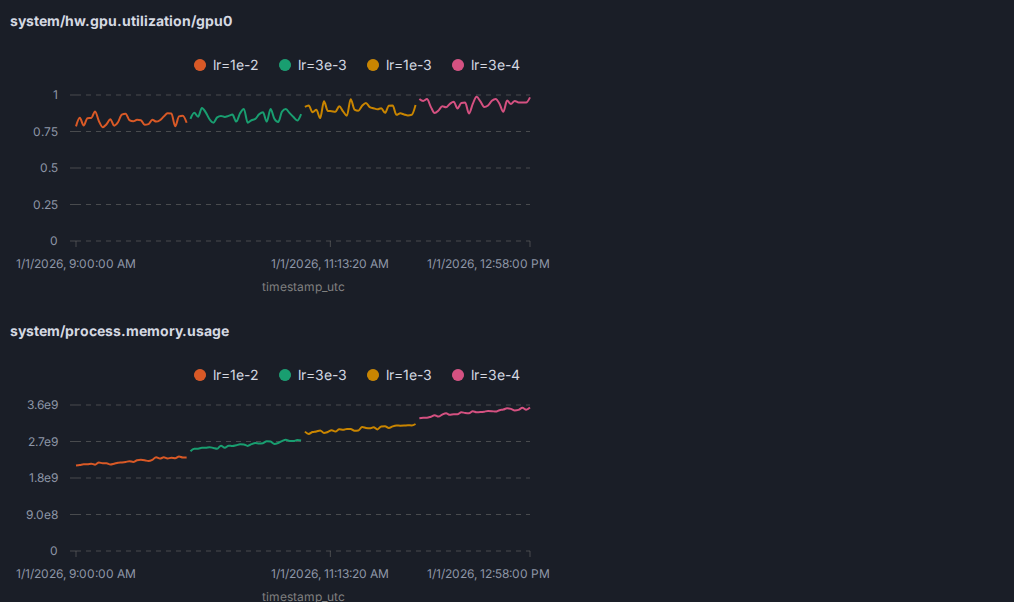
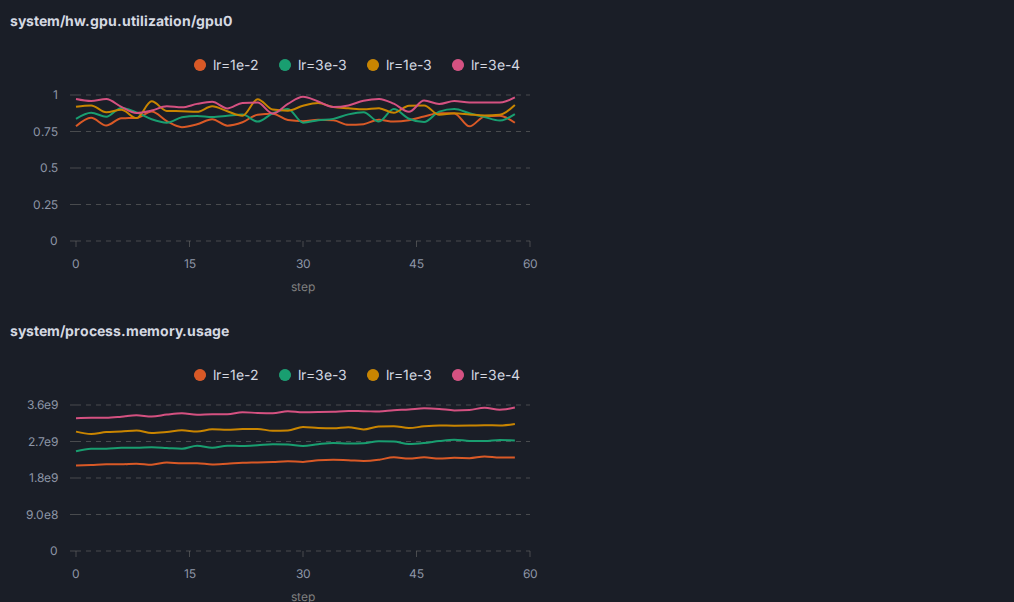
Log a system metric at the run's training step, never at the time
The system sampler logged each sample at the Unix time it was taken, as its
step, so a chart of one against step ran along epoch seconds. A Run now keeps
the step it was last logged at (log_metrics, log_histograms), and a sample is
logged there, 0 before the first; auto-generate charts system metrics against
step like any metric, and the docs screenshot is redrawn that way.

diff --git a/dlboard/client/run.py b/dlboard/client/run.py
@@ -541,12 +541,12 @@ class _Stops(Protocol):
 
 def _log_system(run: Callable[[], Run | None], values: Mapping[str, float]) -> None:
     """
-    Log a system metrics sample into `run` (a weak reference: the sampler must not keep it alive), at the time taken.
+    Log a system metrics sample into `run` (a weak reference: the sampler must not keep it alive), at its step now.
 
-    Its step is the Unix time it was taken, not a training step (see `models.SYSTEM_METRIC_PREFIX`).
+    A step is only ever a training step: the sample is at the one the run last logged at (`Run.step`).
     """
     if (alive := run()) is not None:
-        alive.log_metrics(values, step=int(time.time()))
+        alive.log_metrics(values, step=alive.step)
 
 
 def _log_console(run: Callable[[], Run | None], chunk: ConsoleChunk) -> None:
@@ -586,6 +586,8 @@ class Run:
         self._helpers: list[_Stops] = []
         self.status: models.RunStatus | None = None
         """How this process last told the server the run ended, if it has."""
+        self.step = 0
+        """The training step this run was last logged at (`log_metrics`, `log_histograms`): a system sample's step."""
         if shipping is None:
             return
         # The shipping processes are daemons -- killed with whatever's still queued the moment the interpreter
@@ -742,6 +744,7 @@ class Run:
         it, instead of the server rejecting a whole batch of otherwise-good metrics later on. `step` is required:
         a counter kept here could not agree with another process sharing the run, or with a resumed one.
         """
+        self.step = step
         if (shipping := self._shipping) is None:
             return
         timestamp_utc = pendulum.now(pendulum.UTC)
@@ -770,6 +773,7 @@ class Run:
         by the script that chose it -- once, in one pass over the values -- and a binning that cannot fit
         (too many buckets) raises at this line. A `Histogram` you already binned is sent as it is.
         """
+        self.step = step
         if (shipping := self._shipping) is None:
             return
         shipping.metrics.put(

diff --git a/dlboard/serve/_pages/_experiment/_chart_autogen.py b/dlboard/serve/_pages/_experiment/_chart_autogen.py
@@ -15,13 +15,11 @@ from enum import StrEnum
 from typing import TYPE_CHECKING, Final, Literal
 
 from dlboard.models import (
-    SYSTEM_METRIC_PREFIX,
     Artifact,
     ChartInstance,
     ChartType,
     ColumnKind,
     KeyPatterns,
-    MetricColumn,
     OverlayKey,
     PanelInstance,
     family_template,
@@ -125,20 +123,14 @@ def default_chart_for_metric(
     column: str, *, single_value: bool = False
 ) -> ChartInstance[typing.Any, typing.Any]:
     """
-    The sensible default chart for a metric column: a line chart against `step`, or a system metric's against time.
+    The sensible default chart for a metric column: a line chart against `step`.
 
     `single_value` (every run logs this metric at most once, per
     `single_value_metrics`) switches that to a bar chart comparing the
-    value across runs instead -- a line chart of a single point per run isn't a chart at all. A system metric's step
-    is the time it was sampled (`SYSTEM_METRIC_PREFIX`), so it is drawn against the date it was logged at.
+    value across runs instead -- a line chart of a single point per run isn't a chart at all.
     """
     if single_value:
         return ChartInstance(chart_type=BarChart.name, parameters={"column": column, "x_axis": "run_id"})
-    if column.startswith(SYSTEM_METRIC_PREFIX):
-        return ChartInstance(
-            chart_type=LineChart.name,
-            parameters={"column": column, "x_axis": MetricColumn.TIMESTAMP_UTC, "x_axis_type": "date"},
-        )
     return ChartInstance(chart_type=LineChart.name, parameters={"column": column, "x_axis": "step"})
 
 

diff --git a/dlboard/tests/docs_screenshots_test.py b/dlboard/tests/docs_screenshots_test.py
@@ -239,7 +239,7 @@ def _system_samples(index: int, experiment_id: int, run_id: int) -> list[models.
     """
     A sweep run's system metrics, sampled every two minutes as it trained: its GPU's utilization and its process's memory.
 
-    Keyed and stepped as a run's sampler logs them (`system/...`, at the Unix time of the sample), from a generator of the
+    Keyed and stepped as a run's sampler logs them (`system/...`, at the training step of the sample), from a generator of the
     run's own, so they leave every other number in the demo as it was.
     """
     rng = np.random.default_rng(100 + index)
@@ -247,7 +247,7 @@ def _system_samples(index: int, experiment_id: int, run_id: int) -> list[models.
         models.LoggedMetrics(
             experiment_id=experiment_id,
             run_id=run_id,
-            step=int(when.timestamp()),
+            step=minute,
             metrics={
                 "system/hw.gpu.utilization/gpu0": float(
                     np.clip(0.82 + 0.04 * index + rng.normal(0, 0.03), 0, 1)
@@ -780,8 +780,7 @@ def _stage(shot: DocScreenshot, page: Page, demo: Demo, dlboard_app: Dash) -> Pa
                     chart_type="line",
                     parameters={
                         "column": column,
-                        "x_axis": "timestamp_utc",
-                        "x_axis_type": "date",
+                        "x_axis": "step",
                         "height": 240,
                         "width": 560,
                     },

diff --git a/dlboard/client/tests/run_test.py b/dlboard/client/tests/run_test.py
@@ -601,19 +601,26 @@ def test_flatten_hparams_joins_nested_configs_with_slashes(params: Any, expected
     assert run.flatten_hparams(params) == expected
 
 
-def test_a_run_logs_its_system_metrics_at_the_time_sampled_until_it_finishes(
+def test_a_run_logs_its_system_metrics_at_its_training_step_until_it_finishes(
     fake_api: FakeAPI, shippers: list[FakeShipper]
 ) -> None:
+    """A step is only ever a training step: a sample is at the one the run last logged at, 0 before the first."""
     started = run.init("proj")
     (sampler,) = fake_api.samplers
-    before = int(time.time())
 
     sampler.log({"system/cpu.utilization": 0.5})
+    started.log_metrics({"loss": 1.0}, step=40)
+    sampler.log({"system/cpu.utilization": 0.6})
+    started.log_histograms({"grad": [0.5, 1.5]}, step=41)
+    sampler.log({"system/cpu.utilization": 0.7})
     started.finish()
 
-    ((sample,),) = [item for item in [shippers[0].items] if item]
-    assert sample.metrics == {"system/cpu.utilization": 0.5}
-    assert before <= sample.step <= int(time.time())  # a Unix time, never a training step
+    samples = [item for item in shippers[0].items if "system/cpu.utilization" in item.metrics]
+    assert [(sample.step, sample.metrics["system/cpu.utilization"]) for sample in samples] == [
+        (0, 0.5),
+        (40, 0.6),
+        (41, 0.7),
+    ]
     assert sampler.stopped
 
 

diff --git a/dlboard/serve/_pages/_experiment/tests/chart_autogen_test.py b/dlboard/serve/_pages/_experiment/tests/chart_autogen_test.py
@@ -732,19 +732,13 @@ def test_a_metrics_shape_is_judged_only_if_the_limit_leaves_its_chart() -> None:
     assert [len(keys) for keys in judged] == [autogen.AUTO_MAX_CHARTS]
 
 
-@pytest.mark.parametrize(
-    ("key", "x_axis", "x_axis_type"),
-    [("train/loss", "step", "number"), ("system/hw.gpu.utilization/gpu0", "timestamp_utc", "date")],
-    ids=["a-training-metric-against-its-step", "a-system-metric-against-the-time-it-was-sampled"],
-)
-def test_a_metric_is_charted_against_what_its_step_means(key: str, x_axis: str, x_axis_type: str) -> None:
+@pytest.mark.parametrize("key", ["train/loss", "system/hw.gpu.utilization/gpu0"], ids=["training", "system"])
+def test_a_metric_is_charted_against_its_training_step(key: str) -> None:
+    """A system metric too: its step is the run's training step when it was sampled."""
     chart = autogen.default_chart_for_metric(key)
 
-    assert chart.chart_type == LineChart.name
-    assert (chart.parameters["x_axis"], chart.parameters.get("x_axis_type", "number")) == (
-        x_axis,
-        x_axis_type,
-    )
+    assert (chart.chart_type, chart.parameters["x_axis"]) == (LineChart.name, "step")
+    assert chart.parameters.get("x_axis_type", "number") == "number"
 
 
 def test_a_runs_console_is_charted_as_a_console_not_a_file() -> None:

diff --git a/dlboard/models/_metric.py b/dlboard/models/_metric.py
@@ -90,8 +90,7 @@ SYSTEM_METRIC_PREFIX: Final = "system/"
 """
 The keys a run's system metrics are logged under (`dlboard._telemetry.system`): `system/cpu.utilization`, ...
 
-Their step is the Unix time they were sampled at, not a training step, so a resumed run's samples never land on its
-earlier ones, and they are charted against time.
+Their step is the run's training step when they were sampled (`Run.step`), as every metric's is.
 """
 
 

diff --git a/docs/client.md b/docs/client.md
@@ -123,13 +123,13 @@ This is the same requirement Python's own `multiprocessing` docs describe for an
 Install `dlboard-client[system]` and a run samples the host's CPU and memory and the training process's own, every 30 seconds; add `dlboard-client[gpu]` (NVML, NVIDIA's management library) and it samples each GPU the run can use too (`CUDA_VISIBLE_DEVICES`, as CUDA numbers them: `gpu0` is `cuda:0`): utilization, memory, temperature and power.
 They are two extras because NVML is missing or unusable on plenty of machines that still have a CPU worth watching: either works without the other, and NVML that can't start only turns the GPU part off.
 Each sample is ordinary metrics under `system/` (`system/cpu.utilization`, `system/hw.gpu.memory.usage/gpu0`, ...
-named after OpenTelemetry's semantic conventions), at a step that is the Unix time it was taken, so a resumed run's samples never land on its earlier ones; auto-generate charts them in a `system` panel against the time they were logged.
+named after OpenTelemetry's semantic conventions), at the run's training step when it was taken (the last step it logged metrics or histograms at, 0 before the first), so they line up with the run's other charts; auto-generate charts them in a `system` panel.
 They are read through OpenTelemetry instruments on a meter provider of the run's own: it is never made the global one, and nothing is exported anywhere but to the dlboard server.
 Sampling runs on a thread of its own in the training process (process metrics have to describe it), from the moment the run starts until it is finished, and costs a handful of rows per sample: 8 GPUs and the host are about 70 rows a minute.
 Set `DLBOARD_SYSTEM_METRICS_INTERVAL_S` to sample less often, or `DLBOARD_SYSTEM_METRICS_ENABLED=false` (or `RunSettings(system_metrics=...)`) to turn it off.
 Only rank 0 samples, so a multi-node job covers rank 0's node.
 
-![Line charts of each run's GPU utilization and process memory against the time they were sampled](images/system-metrics.png)
+![Line charts of each run's GPU utilization and process memory against the training step they were sampled at](images/system-metrics.png)
 
 **Console output.**
 A run captures what the script prints -- everything written to `sys.stdout` and `sys.stderr`, tracebacks included -- from its start until it is finished, and auto-generate gives it a `console` chart: each run's newest stretch of output with its latest line at the top (or, set to *oldest first*, its first stretch as printed), a pager through the rest (**Oldest**, **Older**, **Newer**, **Newest**, and which chunk is on show), and a filter over the lines on show.
